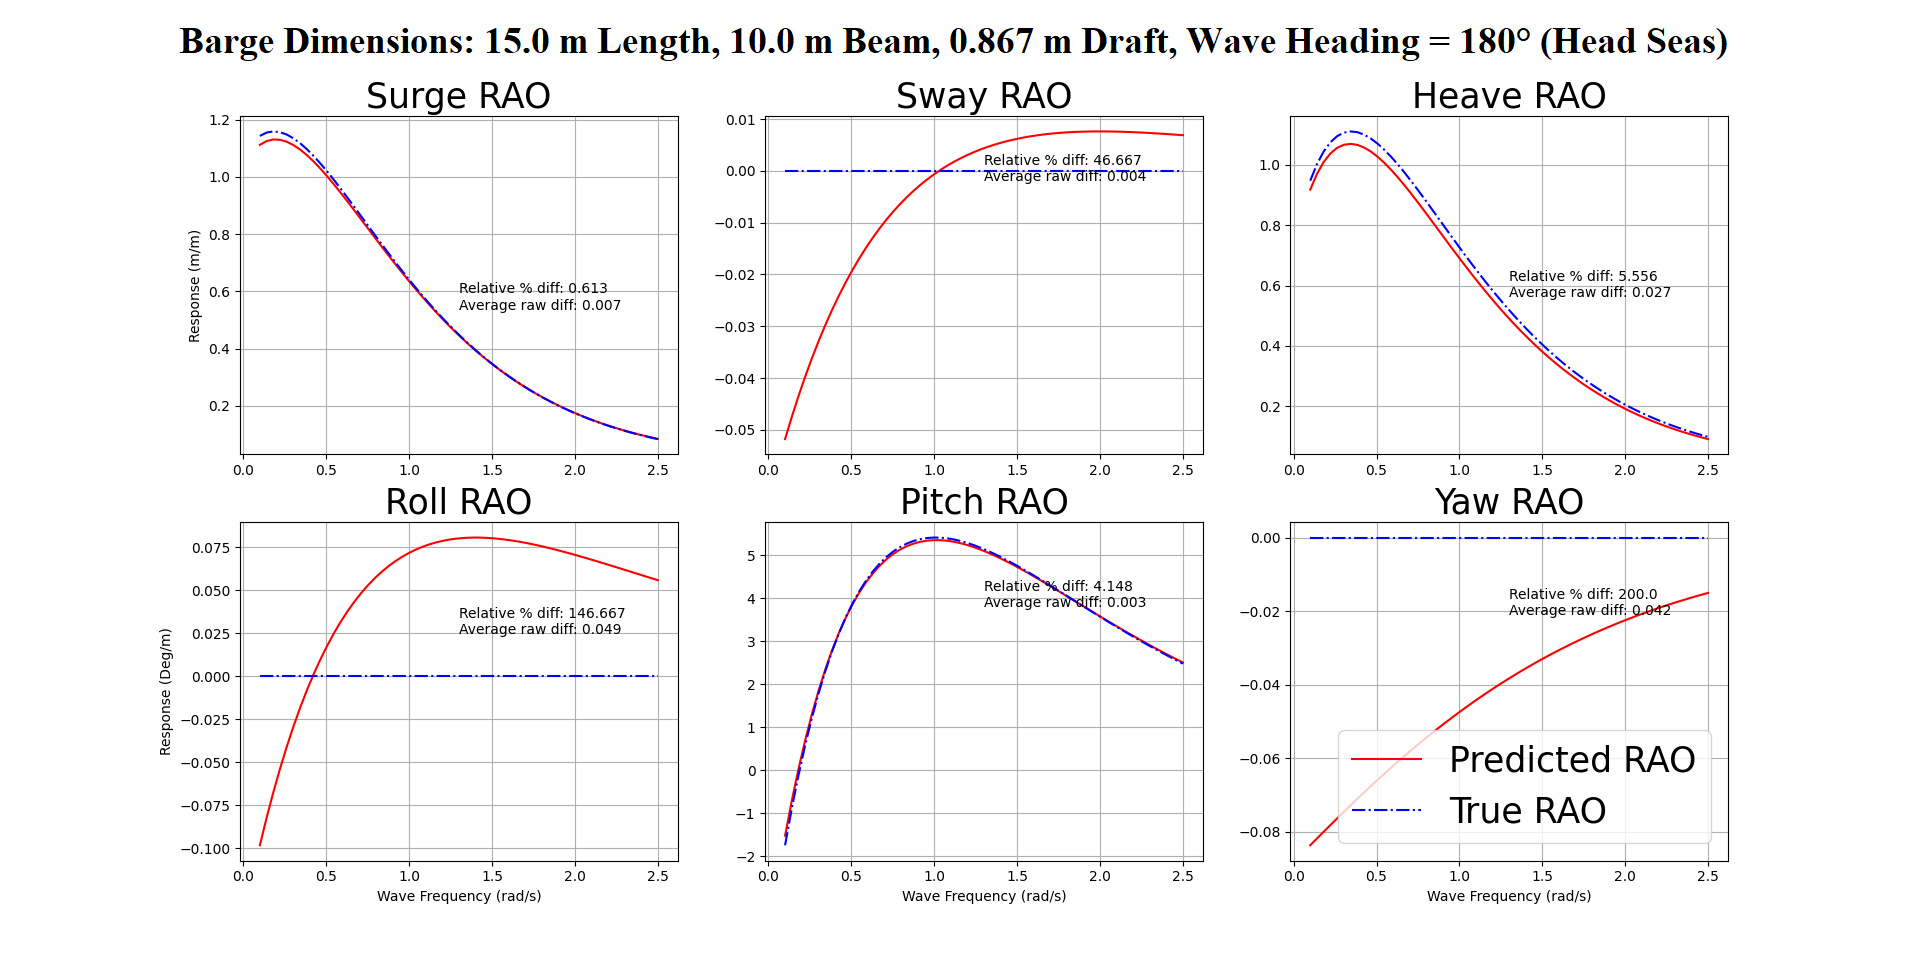
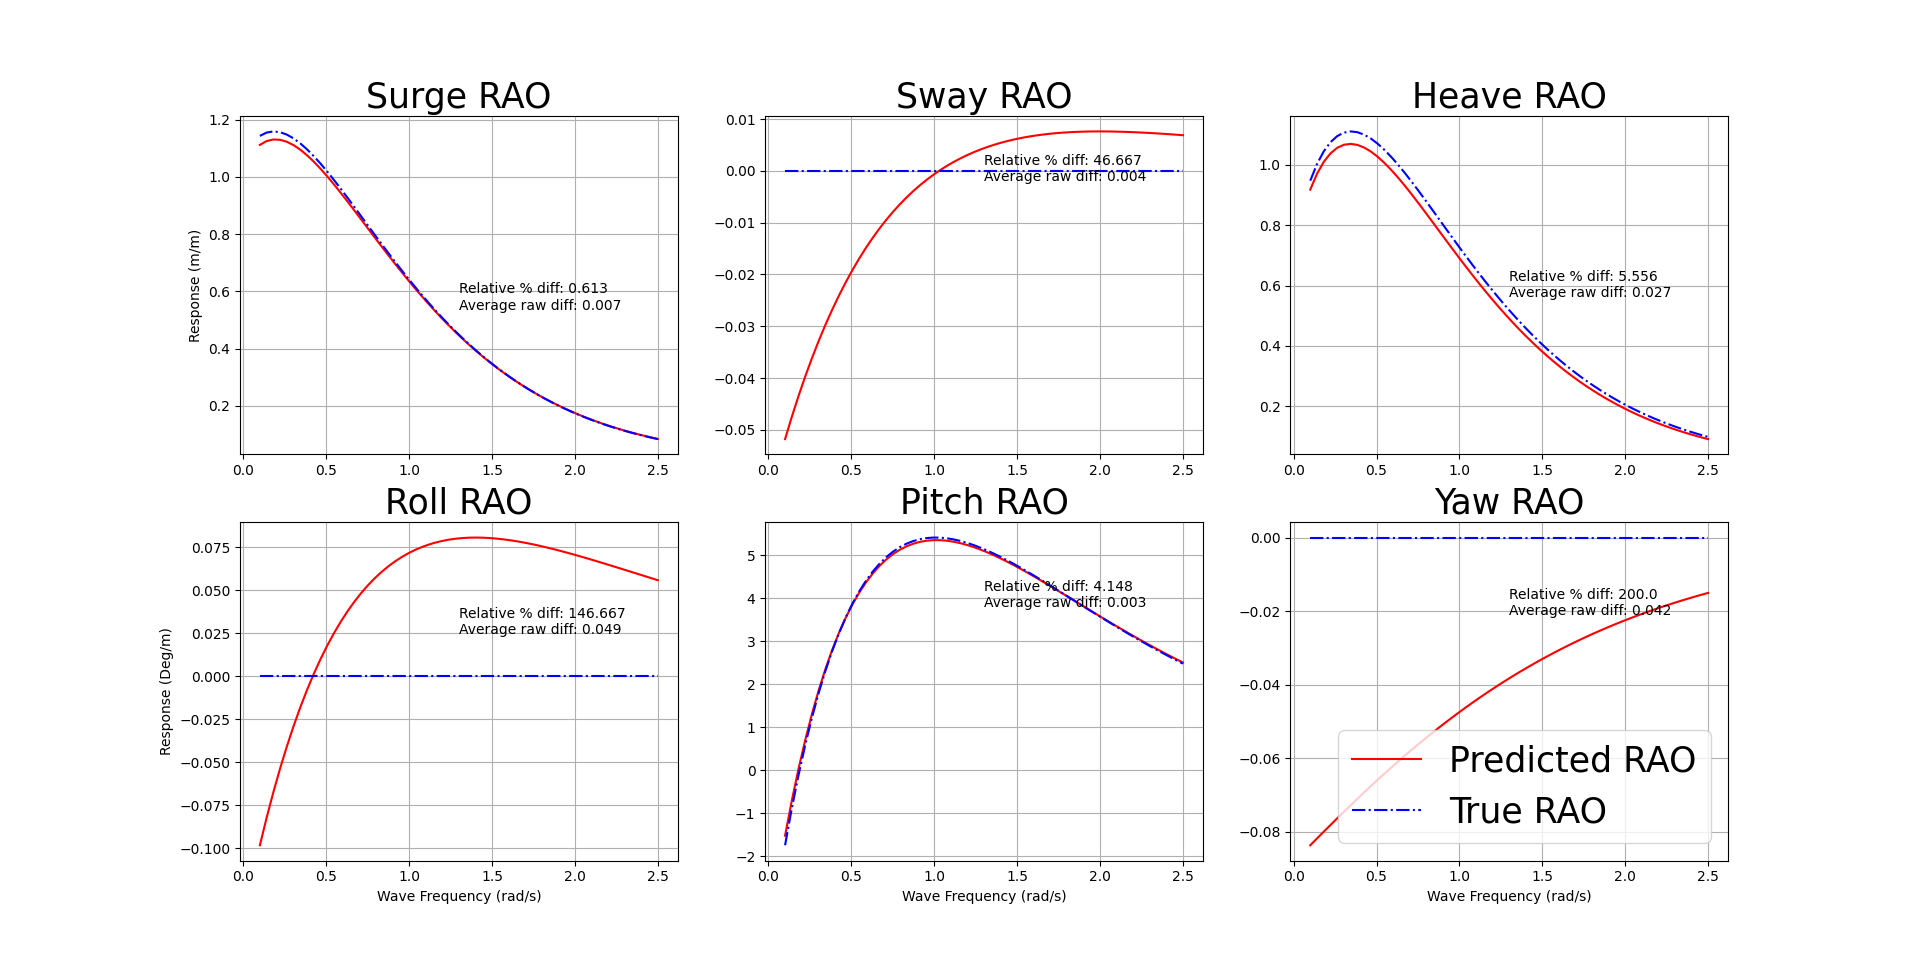
Edited Paper and Presentation

Changed region(s): [[0.0938, 0.031, 0.9062, 0.062]]

diff --git a/parameter_fit_data_with code/damped_model_visualizer.py b/parameter_fit_data_with code/damped_model_visualizer.py
@@ -99,7 +99,7 @@ rx_err_raw = round(abs(mean(np.subtract(orig_rx, pred_rx))), 3)
 ry_err_raw = round(abs(mean(np.subtract(orig_ry, pred_ry))), 3)
 rz_err_raw = round(abs(mean(np.subtract(orig_rz, pred_rz))), 3)
 
-plt.subplot(2, 3, 1)
+# plt.subplot(2, 3, 1)
 plt.rc('axes', titlesize=25)
 plt.rc('legend',fontsize=25)
 # title = 'Barge Dimensions ' + str(baseline_input[0]) + ' m Length, ' + str(baseline_input[1]) + ' m Beam, ' + \
@@ -112,19 +112,21 @@ plt.ylabel('Response (m/m)')
 plt.text(mean(x_axis), (mean(orig_x)+mean(pred_x))/2, "Relative % diff: "+ str(x_err_rpd)+'\n'+"Average raw diff: " + str(x_err_raw))
 plt.grid()
 # plt.ylim([-0.5, 1.5])
-# plt.legend()
-
+plt.legend()
 # plt.show()
-plt.subplot(2, 3, 2)
+# plt.show()
+# plt.subplot(2, 3, 2)
 # plt.rc('font', size=25)
 plt.plot(x_axis, pred_y, color='red', label='Predicted RAO')
 plt.plot(x_axis, orig_y, color='blue', linestyle='-.', label='True RAO')
 plt.title('Sway RAO')
+plt.ylabel('Response (m/m)')
 
 plt.text(mean(x_axis), (mean(orig_y)+mean(pred_y))/2, "Relative % diff: "+ str(y_err_rpd)+'\n'+"Average raw diff: " + str(y_err_raw))
 
 plt.grid()
-# plt.legend()
+plt.legend()
+plt.show()
 # plt.rc('font', size=10)
 # plt.ylim([-0.5, 1.5])
 # plt.show()
